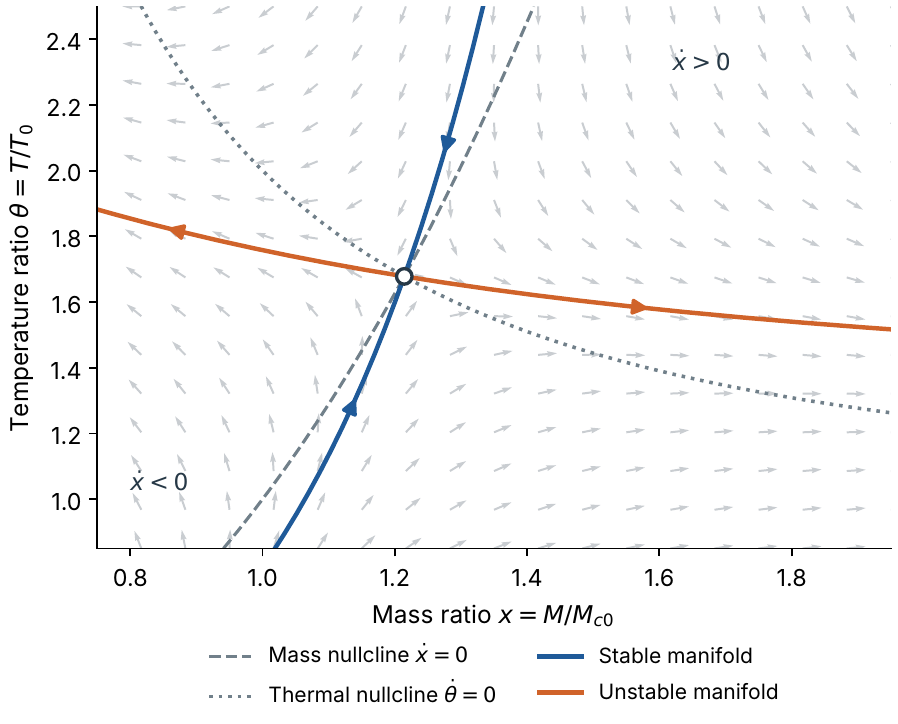
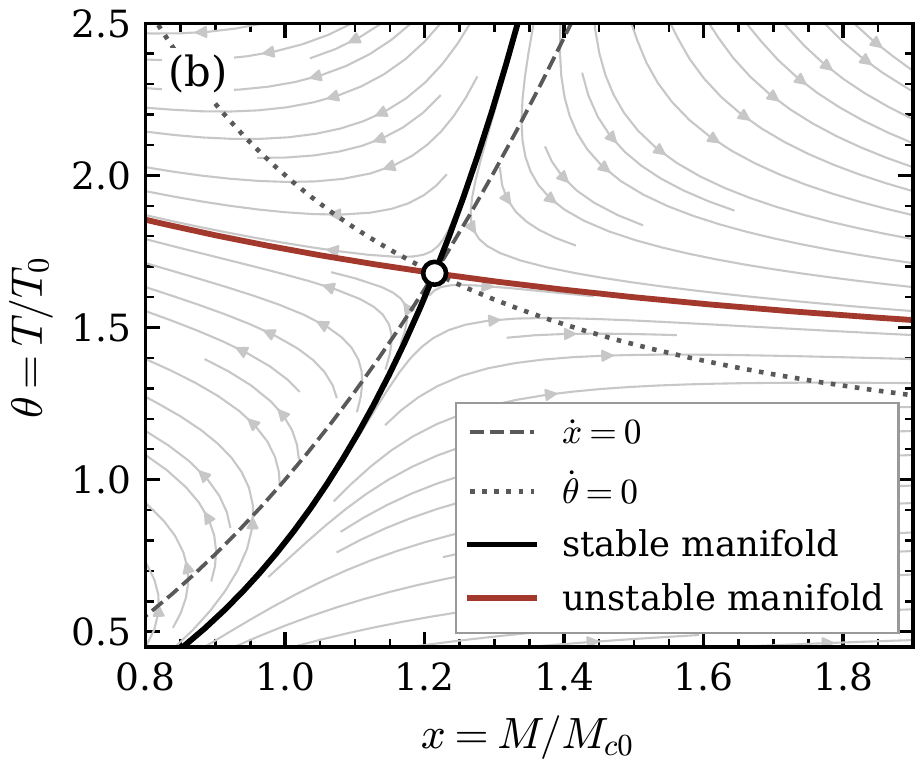
README: replace front-page figures with matching journal-style versions
Claude-Session: https://claude.ai/code/session_017ecjk7uq9C5bJaaXZVgxvW

diff --git a/README.md b/README.md
@@ -13,8 +13,8 @@ A microscopic black hole loses mass by Hawking evaporation and can regain it by 
 The physical reason is the sign of the feedback. An ordinary accreting black hole radiates more when it accretes more, which limits further accretion. A Hawking-powered hole radiates more when it *loses* mass, so heating suppresses accretion exactly when accretion is needed.
 
 <p align="center">
-  <img src="full-paper/fixed_medium.png" width="48%" alt="Net mass rate in the fixed medium, crossing zero with positive slope">
-  <img src="full-paper/phase_portrait.png" width="44%" alt="Phase portrait of the coupled mass-temperature system with a saddle equilibrium">
+  <img src="full-paper/fixed_medium.png" width="49%" alt="Net mass rate in the fixed medium, crossing zero with positive slope">
+  <img src="full-paper/phase_portrait.png" width="47%" alt="Phase portrait of the coupled mass-temperature system with a saddle equilibrium">
 </p>
 <p align="center"><em>Left: the fixed-medium balance repels perturbations. Right: with thermal feedback the balance becomes a saddle.</em></p>
 
